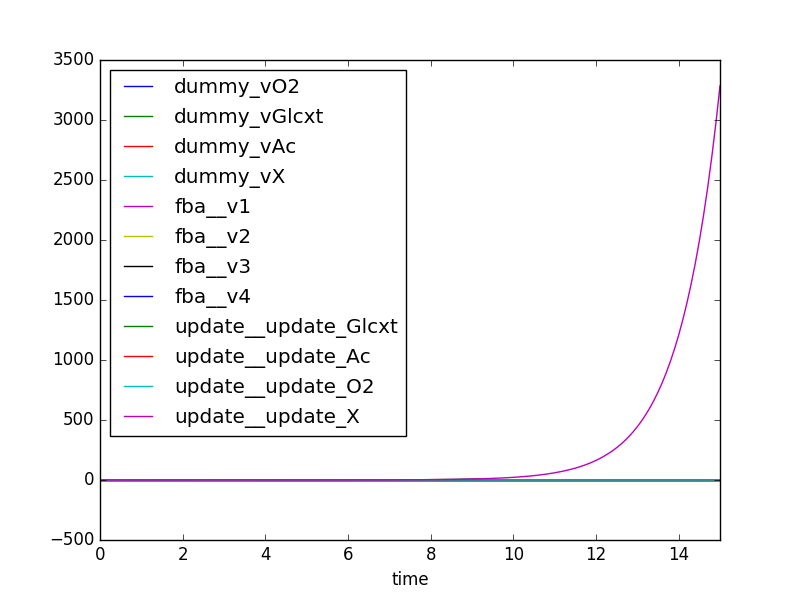
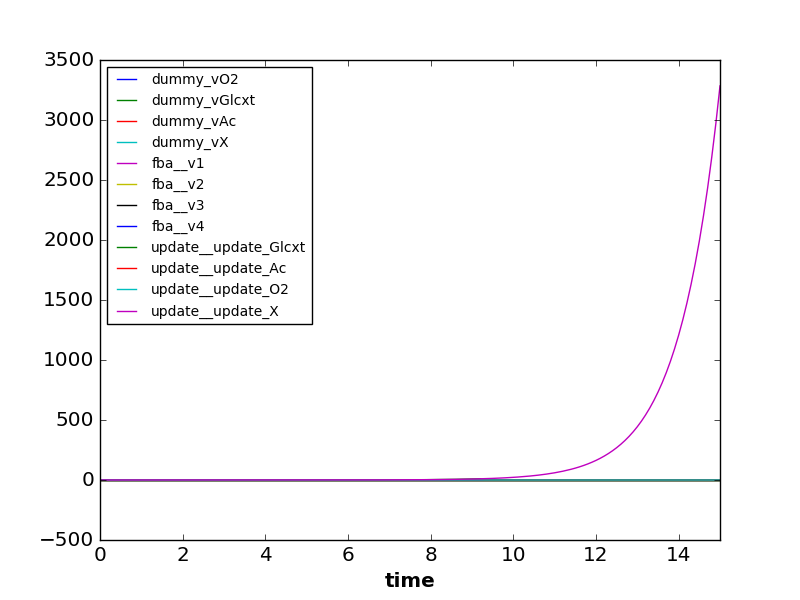
flux and bound view

diff --git a/sbmlutils/dfba/diauxic_growth/simulate.py b/sbmlutils/dfba/diauxic_growth/simulate.py
@@ -8,6 +8,18 @@ from sbmlutils.dfba.simulator import Simulator
 import dgsettings
 import model_factory
 
+from matplotlib import pylab as plt
+
+plt.rcParams.update({
+    'axes.labelsize': 'large',
+    'axes.labelweight': 'bold',
+    'axes.titlesize': 'large',
+    'axes.titleweight': 'bold',
+    'legend.fontsize': 'small',
+    'xtick.labelsize': 'large',
+    'ytick.labelsize': 'large',
+})
+
 version = model_factory.version
 
 directory = os.path.join(dgsettings.out_dir, 'v{}'.format(version))
@@ -35,6 +47,7 @@ def simulate_diauxic_growth(sbml_top_path, tend, steps):
     sim.save_csv(os.path.join(directory, "simulation.csv"), df)
 
     print_species(os.path.join(directory, "species_growth.png"), df)
+    print_bounds(os.path.join(directory, "bounds_growth.png"), df)
     return df
 
 
@@ -44,18 +57,6 @@ def print_species(filepath, df):
     :param df:
     :return:
     """
-    from matplotlib import pylab as plt
-
-    plt.rcParams.update({
-        'axes.labelsize': 'large',
-        'axes.labelweight': 'bold',
-        'axes.titlesize': 'large',
-        'axes.titleweight': 'bold',
-        'legend.fontsize': 'small',
-        'xtick.labelsize': 'large',
-        'ytick.labelsize': 'large',
-    })
-
     fig, ((ax1, ax2), (ax3, ax4)) = plt.subplots(nrows=2, ncols=2, figsize=(14, 14))
 
     for ax in (ax1, ax3):
@@ -84,7 +85,40 @@ def print_species(filepath, df):
         ax.set_xlabel('time [h]')
         ax.legend()
 
-    fig.savefig(filepath)
+    fig.savefig(filepath, bbox_inches='tight')
+
+
+def print_bounds(filepath, df):
+    """ Print exchange fluxes and respective bounds.
+
+    :param df:
+    :return:
+    """
+    fig, ((ax1, ax2), (ax3, ax4)) = plt.subplots(nrows=2, ncols=2, figsize=(14, 14))
+
+    mapping = {'Ac': ax1,
+               'Glcxt': ax2,
+               'O2': ax3,
+               'X': ax4}
+    colors = {'Ac': 'darkred',
+               'Glcxt': 'darkgreen',
+               'O2': 'darkblue',
+               'X': 'black'}
+
+    for key, ax in mapping.iteritems():
+
+        ax.plot(df.time, df['lb_v{}'.format(key)], linestyle='--', marker='None', color=colors[key], alpha=0.5, label="lb_{}".format(key))
+        ax.plot(df.time, df['ub_v{}'.format(key)], linestyle='--', marker='None', color=colors[key], alpha=0.5, label="ub_{}".format(key))
+        ax.fill_between(df.time, df['lb_v{}'.format(key)], df['ub_v{}'.format(key)], facecolor=colors[key], alpha=0.3, interpolate=True)
+
+        ax.plot(df.time, df['v{}'.format(key)], linestyle='-', marker='s', color=colors[key], label=key)
+
+        ax.set_ylabel('Concentration/Biomass [?]')
+        ax.set_title('{}: Flux and bounds'.format(key))
+        ax.set_xlabel('time [h]')
+        ax.legend()
+
+    fig.savefig(filepath, bbox_inches='tight')
 
 if __name__ == "__main__":
     print('Model:', sbml_top_path)
